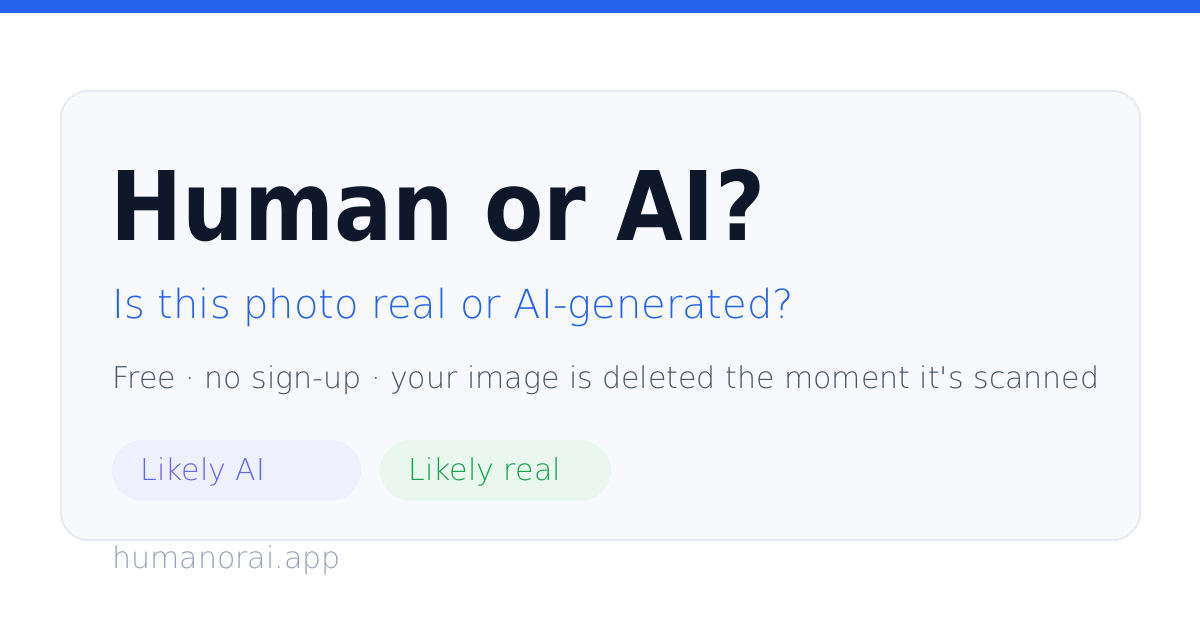
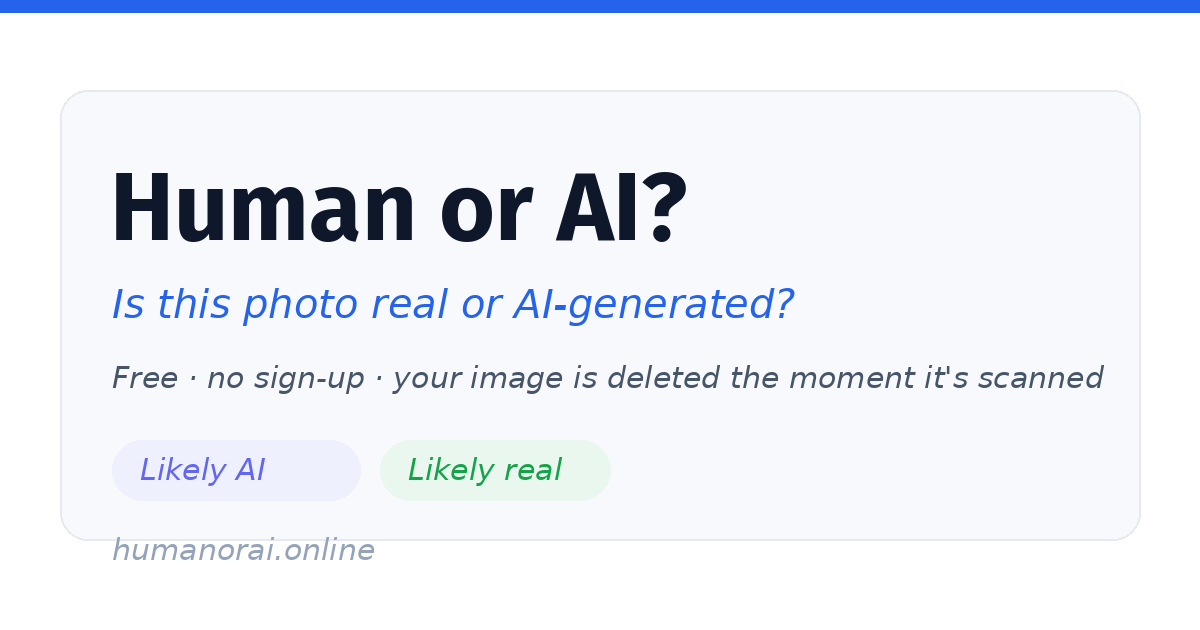
Switched the site address to humanorai.online

diff --git a/web/index.html b/web/index.html
@@ -9,21 +9,21 @@
         content="Check whether a photo was made by an AI or taken by a real camera. Free, no sign-up. Your image is deleted the moment it's scanned — never stored, never used for training.">
     <meta name="theme-color" content="#2563eb">
     <meta name="robots" content="index,follow">
-    <link rel="canonical" href="https://humanorai.app/">
+    <link rel="canonical" href="https://humanorai.online/">
 
     <!-- Open Graph + Twitter (absolute URLs required for og:image/og:url to render in shares). -->
     <meta property="og:type" content="website">
     <meta property="og:title" content="Is this image AI-generated? — Free, private detector">
     <meta property="og:description"
         content="Check whether a photo was made by an AI or a real camera. Free, no sign-up, and your image is deleted the moment it's scanned.">
-    <meta property="og:url" content="https://humanorai.app/">
-    <meta property="og:image" content="https://humanorai.app/static/og-image.png">
+    <meta property="og:url" content="https://humanorai.online/">
+    <meta property="og:image" content="https://humanorai.online/static/og-image.png">
     <meta property="og:site_name" content="Human or AI?">
     <meta name="twitter:card" content="summary_large_image">
     <meta name="twitter:title" content="Is this image AI-generated? — Free, private detector">
     <meta name="twitter:description"
         content="Free, no sign-up AI image detector that deletes every upload after scanning.">
-    <meta name="twitter:image" content="https://humanorai.app/static/og-image.png">
+    <meta name="twitter:image" content="https://humanorai.online/static/og-image.png">
 
     <!-- System font stack: no external font request (faster + nothing leaves your browser). -->
     <style>
@@ -180,7 +180,7 @@
         {
           "@type": "WebApplication",
           "name": "Human or AI?",
-          "url": "https://humanorai.app/",
+          "url": "https://humanorai.online/",
           "description": "A free, private tool that estimates whether an image was made by an AI generator or captured by a real camera, and explains why in plain language. Uploads are deleted immediately after scanning and never used for training.",
           "applicationCategory": "MultimediaApplication",
           "operatingSystem": "Any (web browser)",
